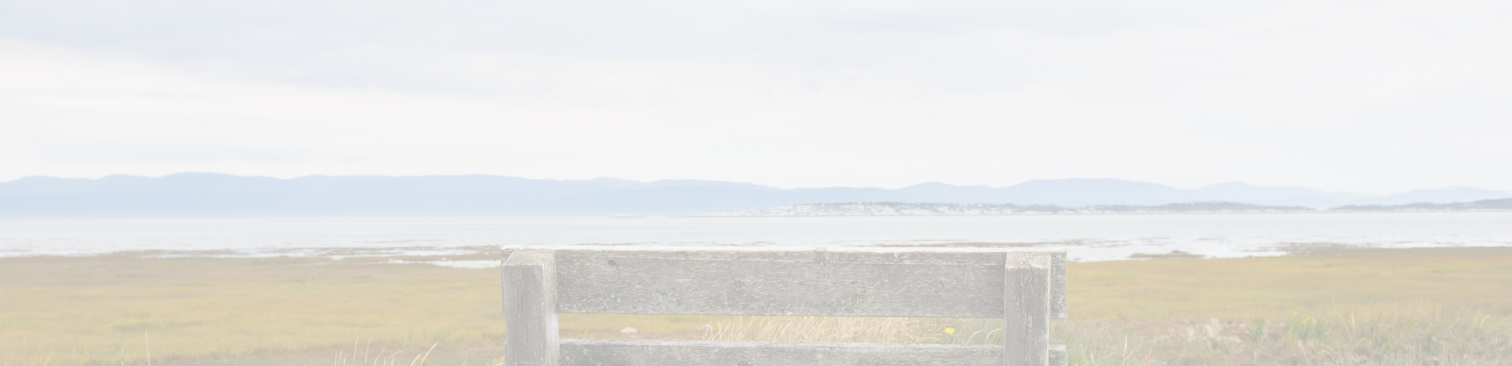
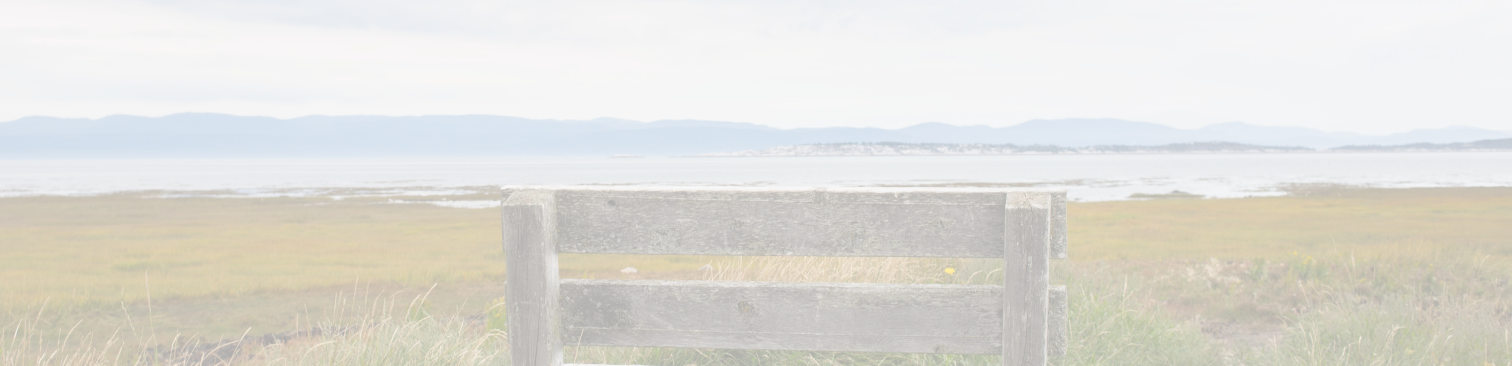
upload imagem

diff --git a/src/pages/Atividades/Atividades.styles.ts b/src/pages/Atividades/Atividades.styles.ts
@@ -3,7 +3,7 @@ import styled from "styled-components";
 export const DivImgInicial = styled.div`
     width: 100%;
     height: 40vh;
-    background-image: url('https://github.com/theobarretosilva/siteResidencialAgatha/blob/main/src/assets/img/img_pagina_espaco.png?raw=true');
+    background-image: url('https://github.com/theobarretosilva/siteResidencialAgatha/blob/main/src/assets/img/img_pagina_atividades.png?raw=true');
     display: flex;
     flex-direction: column;
     justify-content: center;
